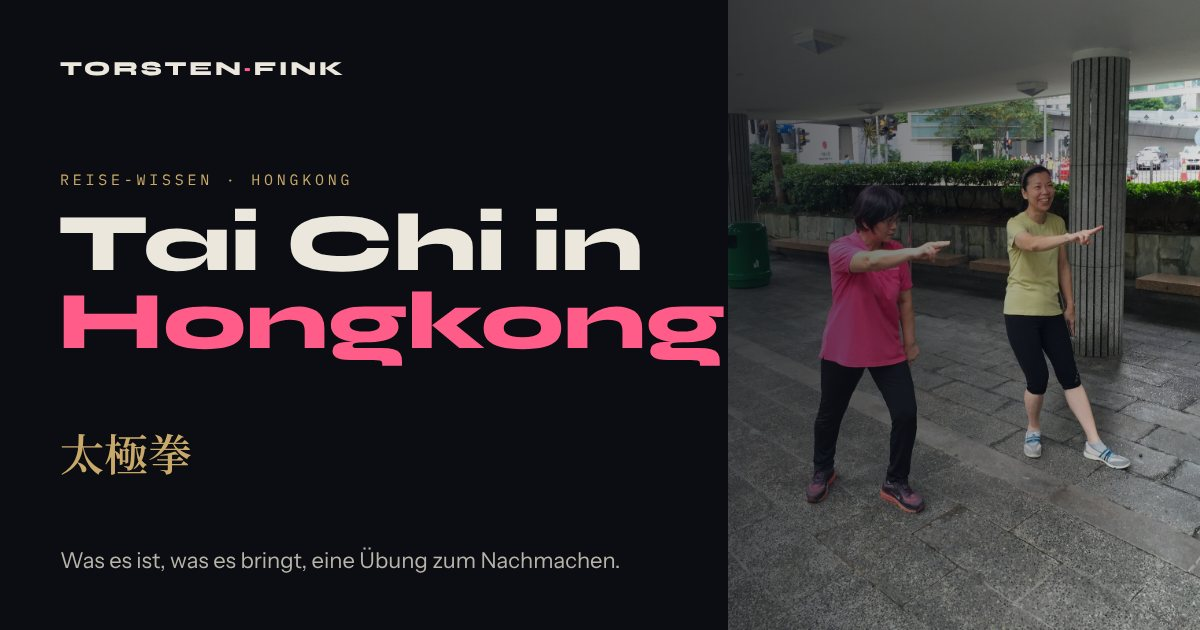
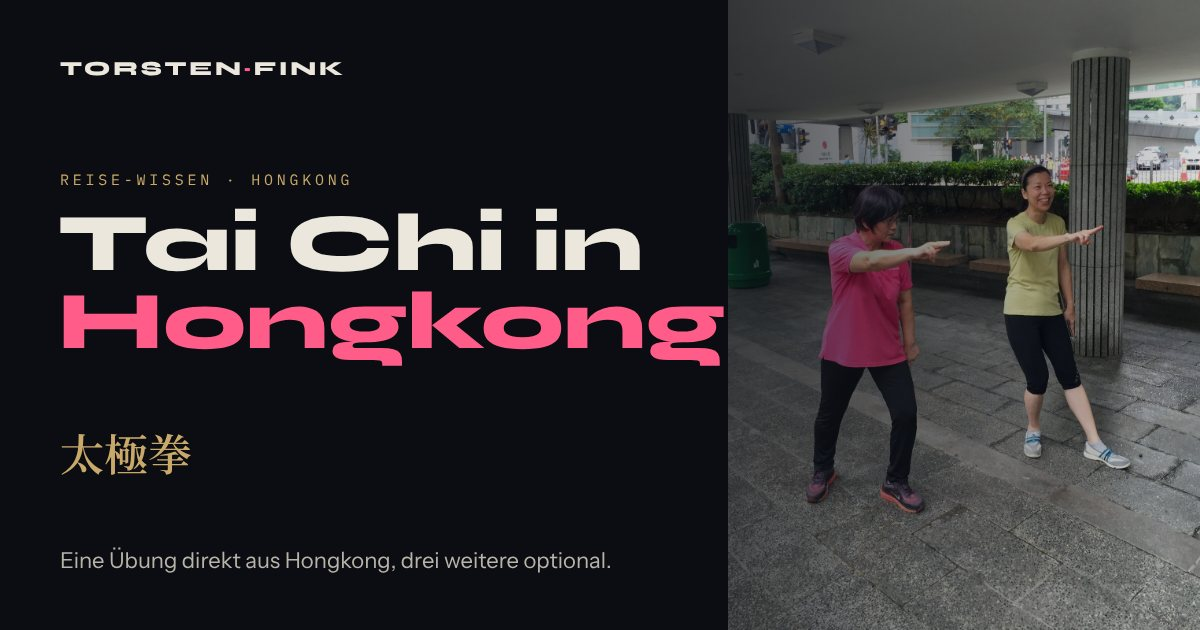
Tai Chi: Unterzeile, Beschreibungen, Startseiten-Karte und Vorschaubild auf „Eine Übung direkt aus Hongkong, drei weitere optional“
Claude-Session: https://claude.ai/code/session_01Fba3anoUoR8ZEjRTz6aG6g

Changed region(s): [[0.0308, 0.8746, 0.5242, 0.9048]]

diff --git a/guides/hongkong-tai-chi.html b/guides/hongkong-tai-chi.html
@@ -4,7 +4,7 @@
 <meta charset="UTF-8">
 <meta name="viewport" content="width=device-width, initial-scale=1.0, viewport-fit=cover">
 <title>Tai Chi in Hongkong: Zeitlupe zwischen Hochhäusern</title>
-<meta name="description" content="Tai Chi in Hongkongs Parks: was es ist, wie alt es wirklich ist, was Studien zur Wirkung sagen. Dazu eine einfache Übung mit Grafik zum Nachmachen.">
+<meta name="description" content="Tai Chi in Hongkongs Parks: was es ist, wie alt es wirklich ist, was Studien sagen. Eine Übung direkt aus Hongkong, drei weitere optional.">
 <meta name="author" content="Torsten Fink">
 <meta name="robots" content="index, follow, max-image-preview:large">
 <link rel="canonical" href="https://torsten-fink.de/guides/hongkong-tai-chi.html">
@@ -13,7 +13,7 @@
 <meta property="og:locale" content="de_DE">
 <meta property="og:site_name" content="Torsten Fink — Reisen &amp; Fotografie">
 <meta property="og:title" content="Tai Chi in Hongkong: Zeitlupe zwischen Hochhäusern">
-<meta property="og:description" content="Was Tai Chi ist, was es nachweislich bringt, und eine Übung in vier Phasen zum Nachmachen.">
+<meta property="og:description" content="Was Tai Chi ist, was es nachweislich bringt. Eine Übung direkt aus Hongkong, drei weitere optional.">
 <meta property="og:url" content="https://torsten-fink.de/guides/hongkong-tai-chi.html">
 <meta property="og:image" content="https://torsten-fink.de/assets/images/guides/og-hongkong-tai-chi.jpg">
 <meta property="og:image:width" content="1200">
@@ -36,7 +36,7 @@
     {
       "@type":"Article",
       "headline":"Tai Chi in Hongkong: Zeitlupe zwischen Hochhäusern",
-      "description":"Was Tai Chi ist, wie alt es ist und was Studien zur Wirkung sagen, mit der Schwert-Finger-Übung in vier Phasen, eigener Grafik und eigenen Fotos aus Hongkong.",
+      "description":"Was Tai Chi ist, wie alt es ist und was Studien zur Wirkung sagen, mit der Schwert-Finger-Übung aus Hongkong, drei optionalen Übungen, eigenen Grafiken und eigenen Fotos aus Hongkong.",
       "inLanguage":"de",
       "datePublished":"2026-10-23T00:00:00+02:00",
       "dateModified":"2026-10-24T00:00:00+02:00",
@@ -109,7 +109,7 @@
   <div class="inner">
     <p class="exif"><span>Hongkong</span><span class="dot">·</span><span>Februar 2019</span><span class="dot">·</span><span>Reise-Wissen</span></p>
     <div class="h1-row"><h1>Tai Chi in Hongkong: Zeitlupe zwischen Hochhäusern</h1><span class="kanji" aria-hidden="true">太極拳</span></div>
-    <p class="sub">Was es ist, was es bringt, und eine Übung zum Nachmachen.</p>
+    <p class="sub">Was es ist, was es bringt. Eine Übung direkt aus Hongkong, drei weitere optional.</p>
   </div>
 </header>
 

diff --git a/index.html b/index.html
@@ -476,7 +476,7 @@ footer{border-top:1px solid var(--line);padding:60px clamp(20px,6vw,80px) 44px;b
       <span class="gtxt">
         <span class="tag">Hongkong · Tai Chi · Übung</span>
         <h3>Tai Chi in Hongkong: Zeitlupe zwischen Hochhäusern</h3>
-        <p>Was es ist, wie alt es wirklich ist, was es nachweislich bringt. Dazu eine Übung in vier Phasen zum Nachmachen.</p>
+        <p>Was es ist, wie alt es wirklich ist, was es nachweislich bringt. Eine Übung direkt aus Hongkong, drei weitere optional.</p>
         <span class="go">Zum Ratgeber →</span>
       </span>
     </a>
